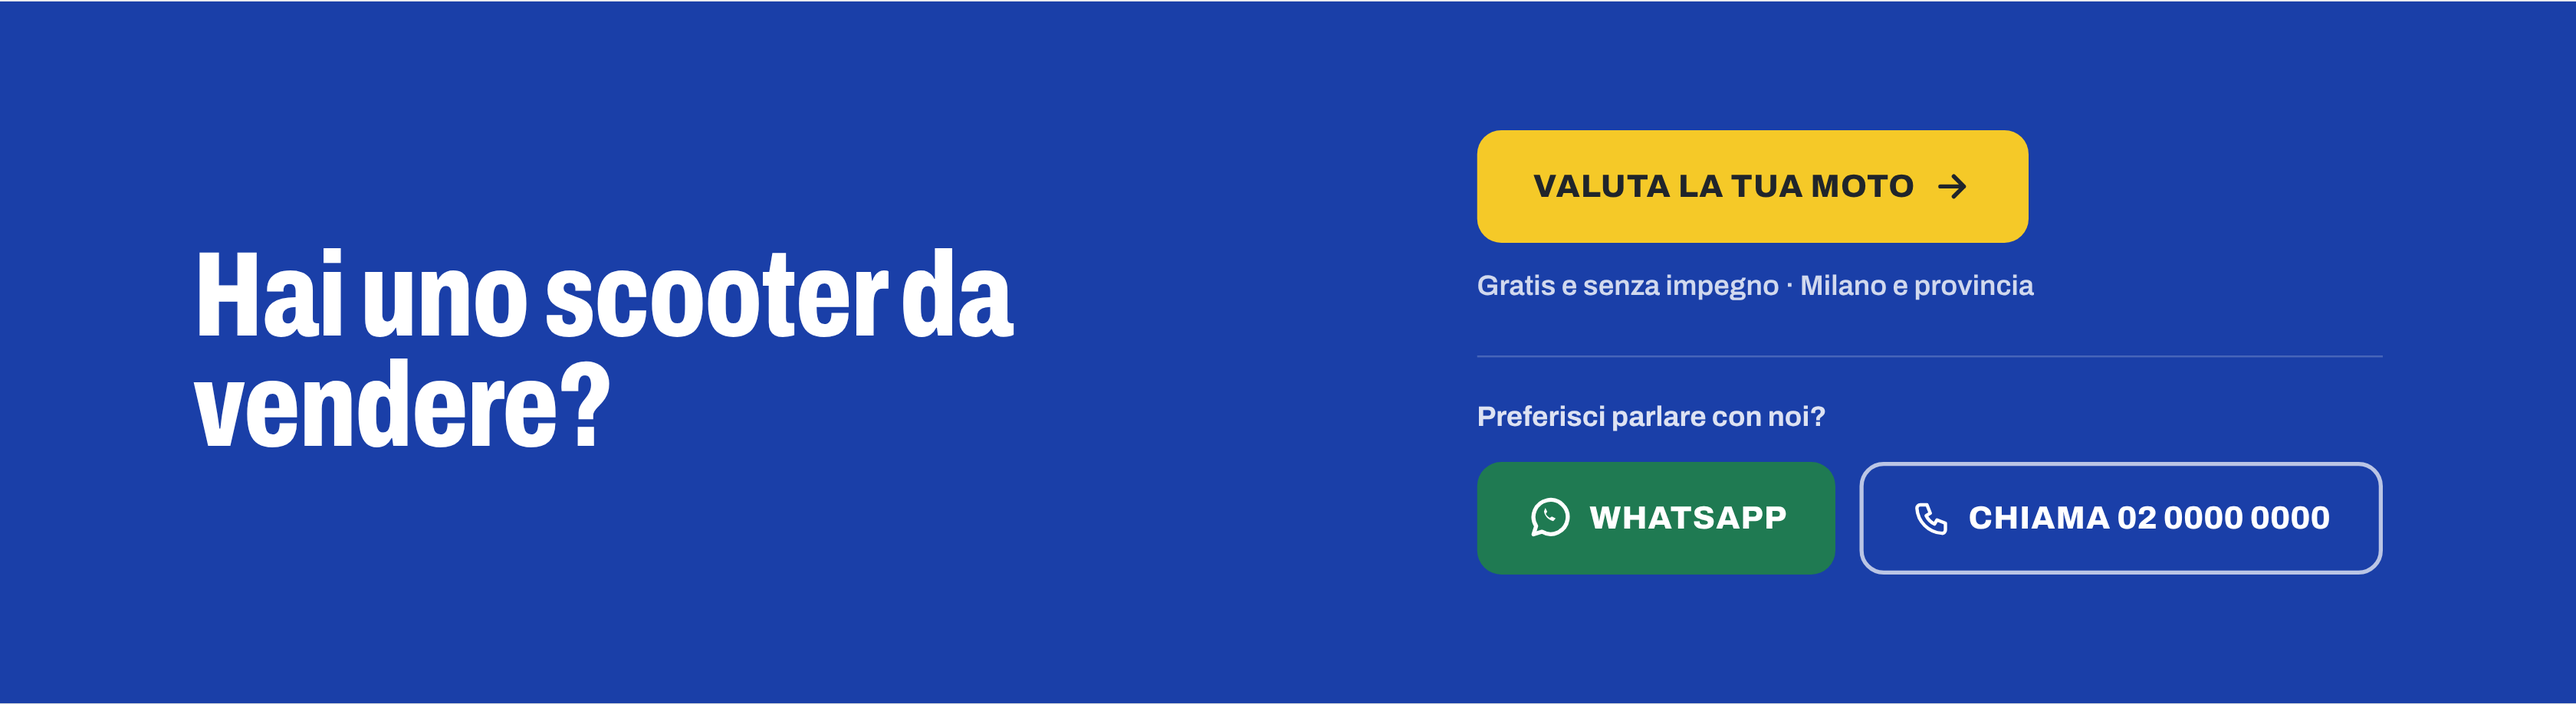
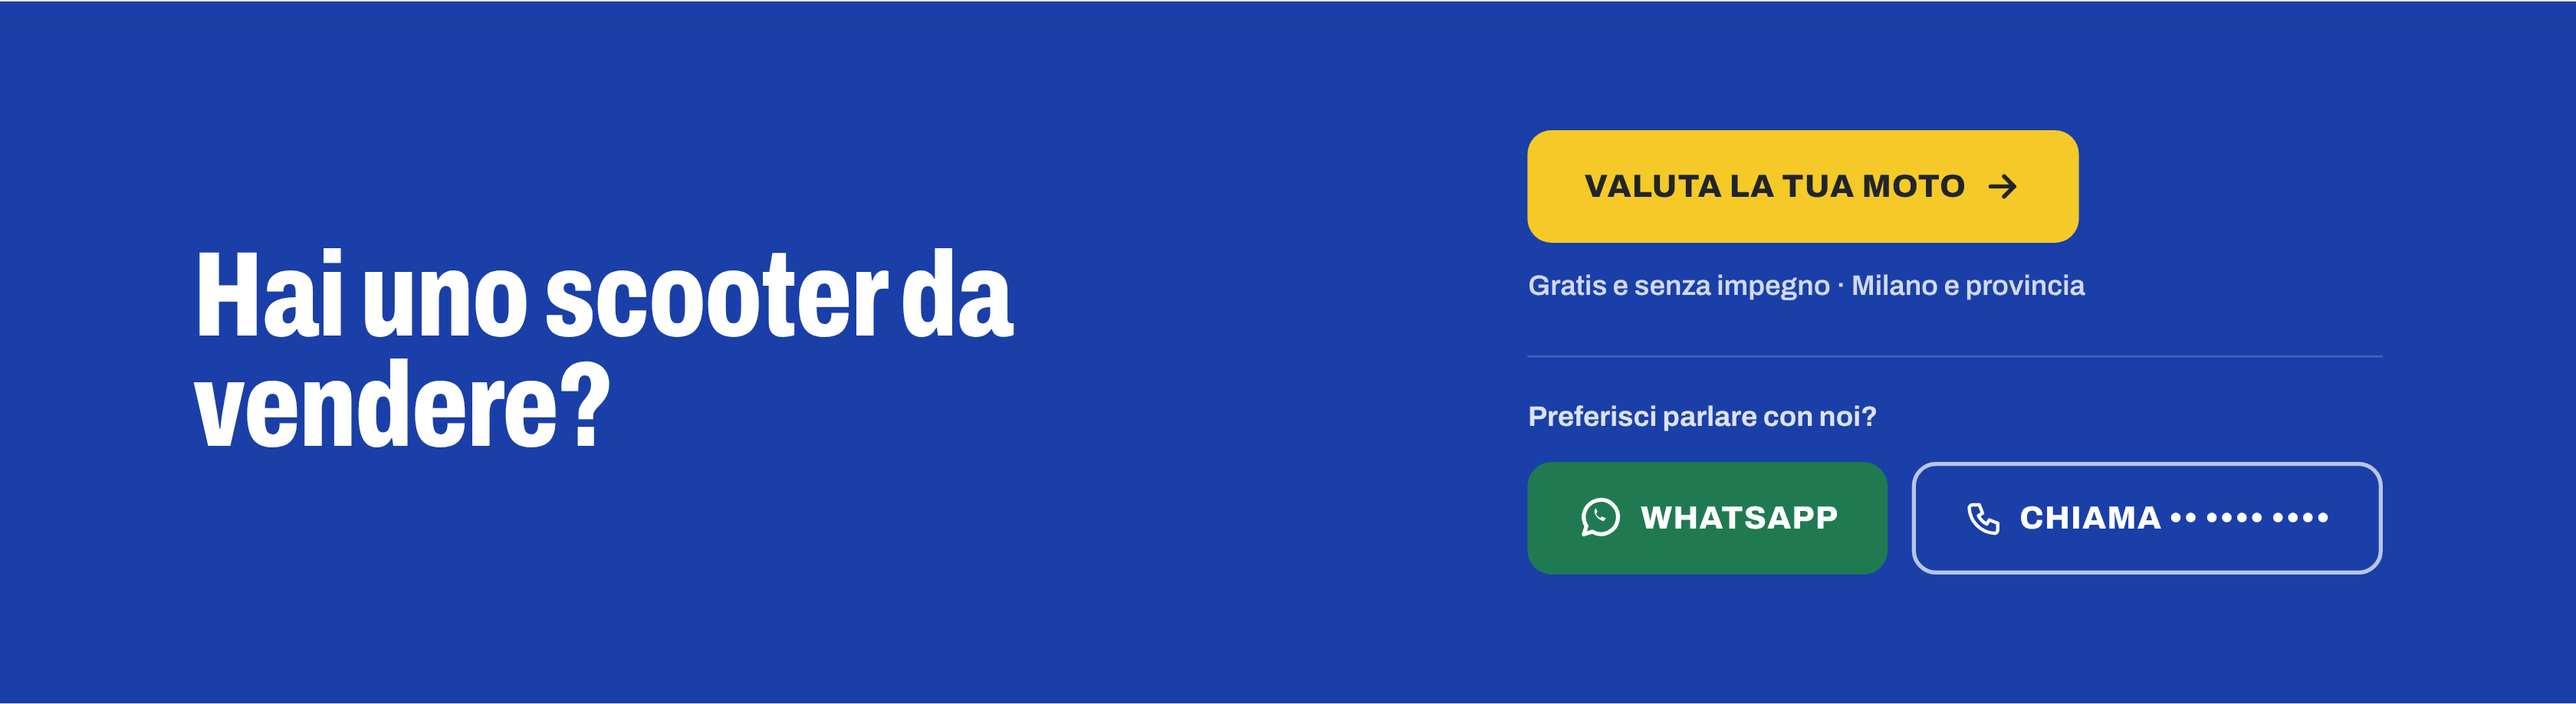
fix(ui): barra mobile su una riga a 320 px e nascosta dalla CTA finale; anteprime 07 rigenerate (cifre oscurate)
Claude-Session: https://claude.ai/code/session_01RTZ9kDdjzDvBtAfBBartpB

diff --git a/src/components/StickyCta.tsx b/src/components/StickyCta.tsx
@@ -4,17 +4,33 @@ import { TrackedLink } from "./Track";
 import { btnPrimary } from "./buttons";
 import { PhoneButton, WhatsAppButton } from "./ContactButtons";
 
-/** Su mobile, quando la CTA principale esce dallo schermo, compare una barra in basso. */
-export function StickyCta({ watchId }: { watchId: string }) {
-  const [visible, setVisible] = useState(false);
+/**
+ * Su mobile, quando la CTA principale esce dallo schermo, compare una barra in basso.
+ * Si nasconde da quando la CTA finale (`hideId`) entra nello schermo fino alla fine della pagina: così non la duplica
+ * e non ricompare sopra il footer.
+ */
+export function StickyCta({ watchId, hideId }: { watchId: string; hideId: string }) {
+  const [heroOut, setHeroOut] = useState(false);
+  const [finalReached, setFinalReached] = useState(false);
 
   useEffect(() => {
-    const el = document.getElementById(watchId);
-    if (!el) return;
-    const io = new IntersectionObserver(([entry]) => setVisible(!entry.isIntersecting), { threshold: 0 });
-    io.observe(el);
-    return () => io.disconnect();
-  }, [watchId]);
+    const hero = document.getElementById(watchId);
+    const end = document.getElementById(hideId);
+    if (!hero || !end) return;
+    const ioHero = new IntersectionObserver(([e]) => setHeroOut(!e.isIntersecting), { threshold: 0 });
+    // finale raggiunta = visibile adesso oppure già scorsa verso l'alto
+    const ioEnd = new IntersectionObserver(([e]) => setFinalReached(e.isIntersecting || e.boundingClientRect.top < 0), {
+      threshold: 0,
+    });
+    ioHero.observe(hero);
+    ioEnd.observe(end);
+    return () => {
+      ioHero.disconnect();
+      ioEnd.disconnect();
+    };
+  }, [watchId, hideId]);
+
+  const visible = heroOut && !finalReached;
 
   return (
     <div
@@ -24,11 +40,14 @@ export function StickyCta({ watchId }: { watchId: string }) {
       }`}
     >
       <div className="flex gap-2">
-        <TrackedLink href="/valuta" event="cta_click" label="sticky" className={`${btnPrimary} min-w-0 flex-1 px-4`}>
-          Valuta la tua moto
+        <TrackedLink href="/valuta" event="cta_click" label="sticky" className={`${btnPrimary} min-w-0 flex-1 whitespace-nowrap px-4 max-[359px]:px-3 max-[359px]:text-sm`}>
+          <span className="max-[359px]:hidden">Valuta la tua moto</span>
+          <span aria-hidden className="hidden max-[359px]:inline">
+            Valuta la moto
+          </span>
         </TrackedLink>
-        <WhatsAppButton from="sticky" size="icon" />
-        <PhoneButton size="icon" />
+        <WhatsAppButton from="sticky" size="icon" className="max-[359px]:w-12" />
+        <PhoneButton size="icon" className="max-[359px]:w-12" />
       </div>
     </div>
   );

diff --git a/src/app/page.tsx b/src/app/page.tsx
@@ -303,7 +303,7 @@ export default function Home() {
         <section className="on-dark bg-plate text-paper">
           <div className="mx-auto flex max-w-6xl flex-col items-start gap-7 px-4 py-14 sm:px-6 md:flex-row md:items-center md:justify-between md:py-16 lg:px-8">
             <p className="display max-w-[20ch] text-4xl sm:text-5xl md:text-6xl">Hai uno scooter da vendere?</p>
-            <div className="w-full md:w-auto">
+            <div id="final-cta" className="w-full md:w-auto">
               <TrackedLink href="/valuta" event="cta_click" label="footer" className={`${btnPrimary} w-full md:w-auto`}>
                 Valuta la tua moto
                 <IconArrowRight className="h-5 w-5" />
@@ -324,7 +324,7 @@ export default function Home() {
       </main>
 
       <SiteFooter />
-      <StickyCta watchId="hero-cta" />
+      <StickyCta watchId="hero-cta" hideId="final-cta" />
     </>
   );
 }

diff --git a/docs/anteprime/README.md b/docs/anteprime/README.md
@@ -3,7 +3,7 @@
 Schermate generate dalla **build di produzione locale** (database e storage temporanei, nessun dato reale, sito non
 pubblicato). Telefono simulato: Pixel 7 (412 px); desktop 1280 x 800.
 
-Tutte le schermate (01–09) documentano la stessa versione: miglioramento visivo (fascia vantaggi, gerarchia titoli, CTA sulle card) e correzioni di contrasto (bordi dei campi, cifre segnaposto del chilometraggio). Le schermate a pagina intera sono scattate senza la barra fissa in basso, che altrimenti comparirebbe a metà immagine. Il sito **non usa fotografie né illustrazioni**: dove andranno le foto c'è una composizione di colori e tipografia.
+Tutte le schermate (01–09) documentano la stessa versione: miglioramento visivo (fascia vantaggi, gerarchia titoli, CTA sulle card) e correzioni di contrasto (bordi dei campi, cifre segnaposto del chilometraggio). Le schermate a pagina intera sono scattate senza la barra fissa in basso, che altrimenti comparirebbe a metà immagine. Le `07*` sono state scattate con una copia isolata del progetto (fuori dal repository) e numeri di prova, oscurati nelle immagini; il repository non li contiene. Il sito **non usa fotografie né illustrazioni**: dove andranno le foto c'è una composizione di colori e tipografia.
 Foto da procurare: [docs/IMMAGINI-DA-FORNIRE.md](../IMMAGINI-DA-FORNIRE.md).
 
 | File | Cosa mostra |
@@ -15,7 +15,7 @@ Foto da procurare: [docs/IMMAGINI-DA-FORNIRE.md](../IMMAGINI-DA-FORNIRE.md).
 | `04-percorso-altro.png`, `04b-km.png`, `04c-condizioni.png`, `04d-contatti-errori.png`, `04e-contatti.png` | «Altro», chilometri, condizioni, contatti con errori e compilati |
 | `05-foto.png`, `05b-foto-caricate.png` | Passaggio foto (facoltative, «Invia senza foto») |
 | `06-conferma.png` | Richiesta ricevuta con codice |
-| `07a`–`07f-contatti-configurati-*.png` | Pulsanti **WhatsApp** e **Chiama** quando i numeri sono configurati (header, finale, footer, barra mobile, 320 px). **Numeri di prova solo per questa schermata: non sono nel codice** |
+| `07a`–`07f-contatti-configurati-*.png` | Pulsanti **WhatsApp** e **Chiama** quando i numeri sono configurati (header, finale, footer, barra mobile, 320 px). **Cifre dei numeri oscurate; i numeri di prova non sono nel codice** |
 | `08a`–`08c-contatti-non-configurati-*.png` | Gli stessi punti con i numeri **non configurati** (stato reale): nessun pulsante di contatto |
 
 ## Anteprima navigabile in locale (senza pubblicare nulla)
